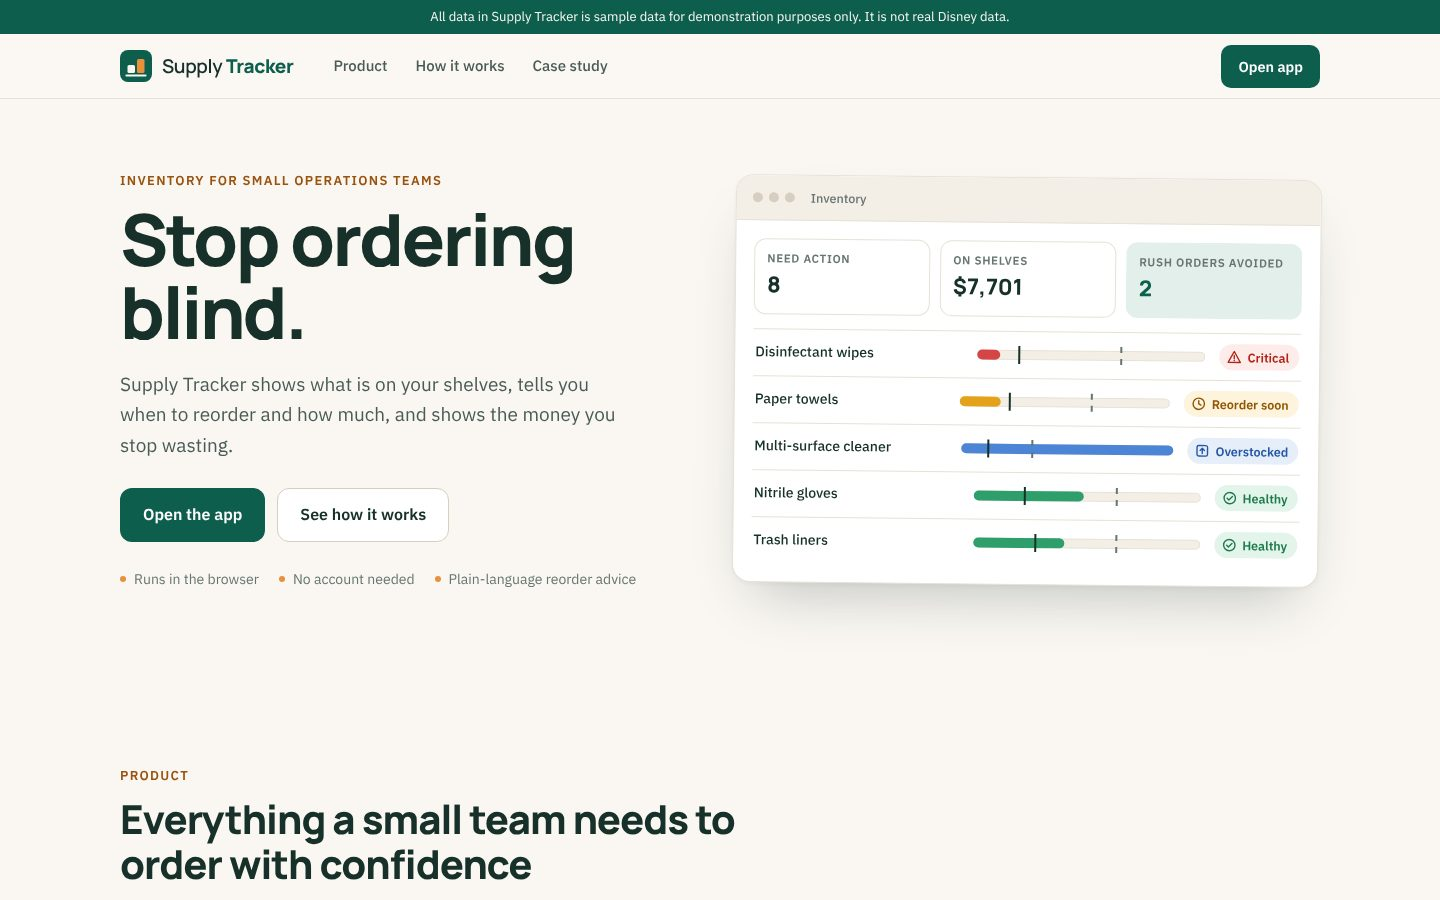
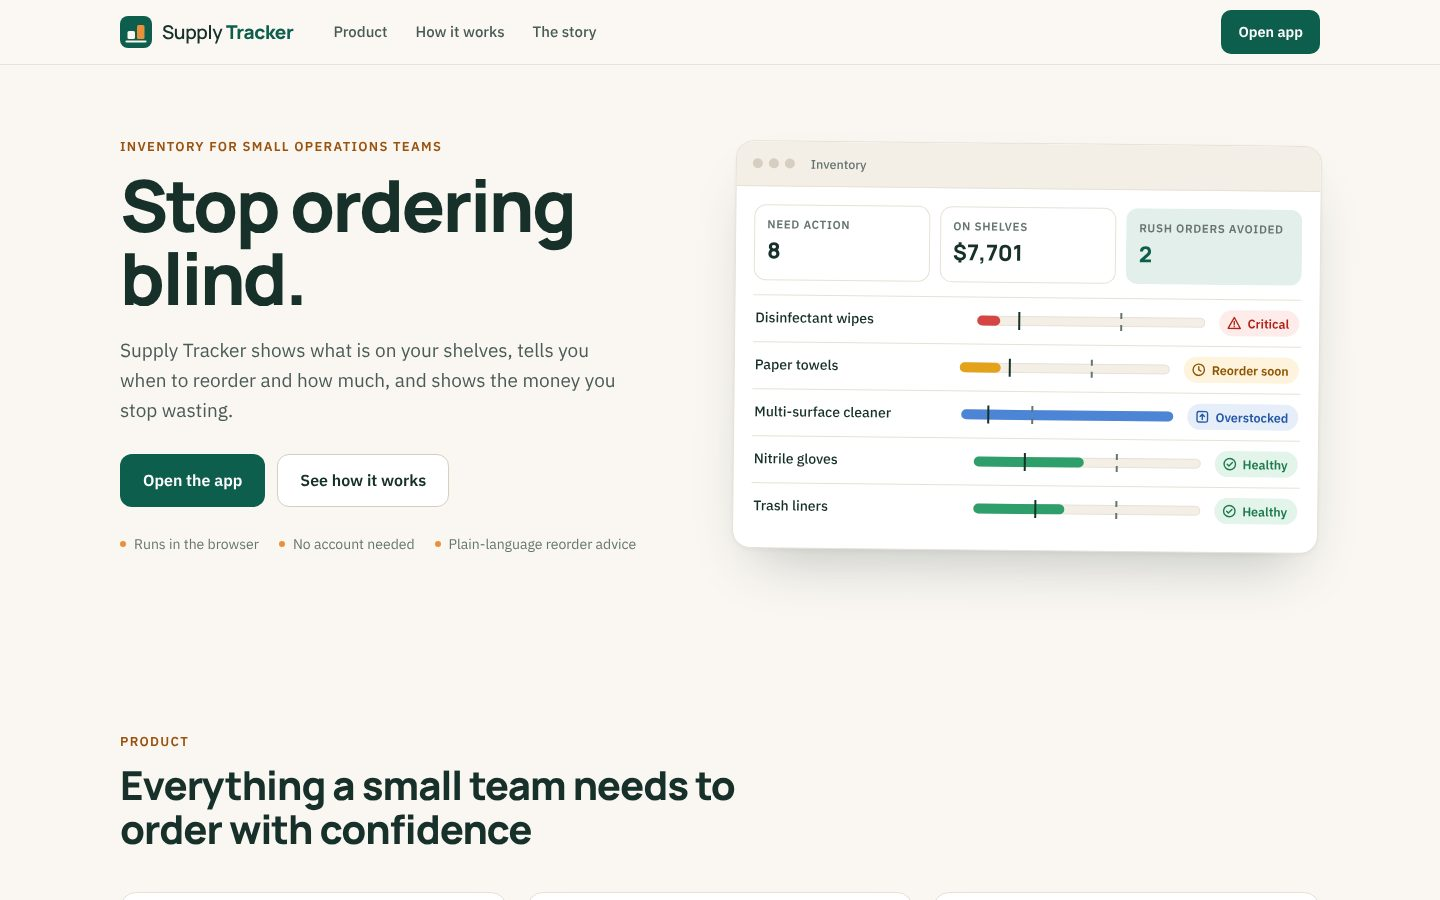
Center the hero, drop the orbit and name in the nav, add email and LinkedIn, show full project previews
Claude-Session: https://claude.ai/code/session_01UnwMhNBHbRPHzZiKvzpAbh

diff --git a/src/main.ts b/src/main.ts
@@ -44,7 +44,7 @@ function sectionHead(eyebrow: string, heading: string, intro = '') {
 const header = `
 <header class="nav-wrap">
   <nav class="nav" aria-label="Main">
-    <a class="brand" href="#top" aria-label="Back to top"><span class="brand-dot"></span>${PERSON.first}</a>
+    <a class="brand" href="#top" aria-label="Back to top"><span class="brand-dot"></span></a>
     <div class="nav-links" id="nav-links">
       ${NAV.map(([id, label]) => `<a href="#${id}" data-nav="${id}">${label}</a>`).join('')}
     </div>
@@ -56,12 +56,6 @@ const header = `
 const hero = `
 <section class="hero" id="top">
   <div class="wrap hero-inner">
-    <div class="orbit hero-in" style="--d:300ms" aria-hidden="true">
-      <div class="ring" style="--i:0%;--t:90s"><span class="sat" style="--c:#7C5CFF"></span></div>
-      <div class="ring" style="--i:14%;--t:64s;rotate:140deg"><span class="sat" style="--c:#FF7A3D"></span></div>
-      <div class="ring" style="--i:28%;--t:44s;rotate:250deg"><span class="sat" style="--c:#3DDCC0"></span></div>
-      <div class="core"></div>
-    </div>
     <p class="eyebrow hero-in" style="--d:0ms">${HERO.eyebrow}</p>
     <h1 class="hero-name hero-in" style="--d:80ms"><span class="grad shimmer">${PERSON.first} ${PERSON.last}</span></h1>
     <p class="hero-pitch hero-in" style="--d:160ms">${HERO.pitch}</p>

diff --git a/src/style.css b/src/style.css
@@ -1072,3 +1072,17 @@ a.contact-link:hover {
     transition: none;
   }
 }
+
+/* Centered hero, no orbit; project previews keep their full 16:10 frame */
+.hero-inner { text-align: center; display: flex; flex-direction: column; align-items: center; }
+.hero-pitch { margin-left: auto; margin-right: auto; }
+.role-line, .hero-ctas { justify-content: center; }
+.orbit { display: none; }
+.work-media { min-height: 0; aspect-ratio: 16 / 10; align-self: center; }
+.work-media img { object-position: top center; }
+.feature-media { min-height: 0; aspect-ratio: 16 / 10; align-self: center; }
+.feature-media img { object-position: top center; }
+@media (max-width: 640px) {
+  .role-line { flex-direction: column; align-items: center; gap: 6px; }
+  .role-line li + li::before { display: none; }
+}

diff --git a/src/content.ts b/src/content.ts
@@ -6,8 +6,8 @@ export const ph = (label: string) => `<span class="ph" title="To fill in">[${lab
 // Live Netlify links. Leave empty until each site is deployed; the "live" buttons stay hidden until then.
 export const LINKS = {
   github: 'https://github.com/bryanjoel11',
-  email: '', // e.g. 'name@example.com'
-  linkedin: '', // e.g. 'https://www.linkedin.com/in/...'
+  email: 'gonzalezmoral67@gmail.com',
+  linkedin: 'https://www.linkedin.com/in/bryan-gonz%C3%A1lez',
   resume: '', // e.g. './resume.pdf' once the PDF is in /public
   afterglowLive: 'https://afterglow-insights.netlify.app',
   supplyLive: 'https://supply-tracker-app.netlify.app',
